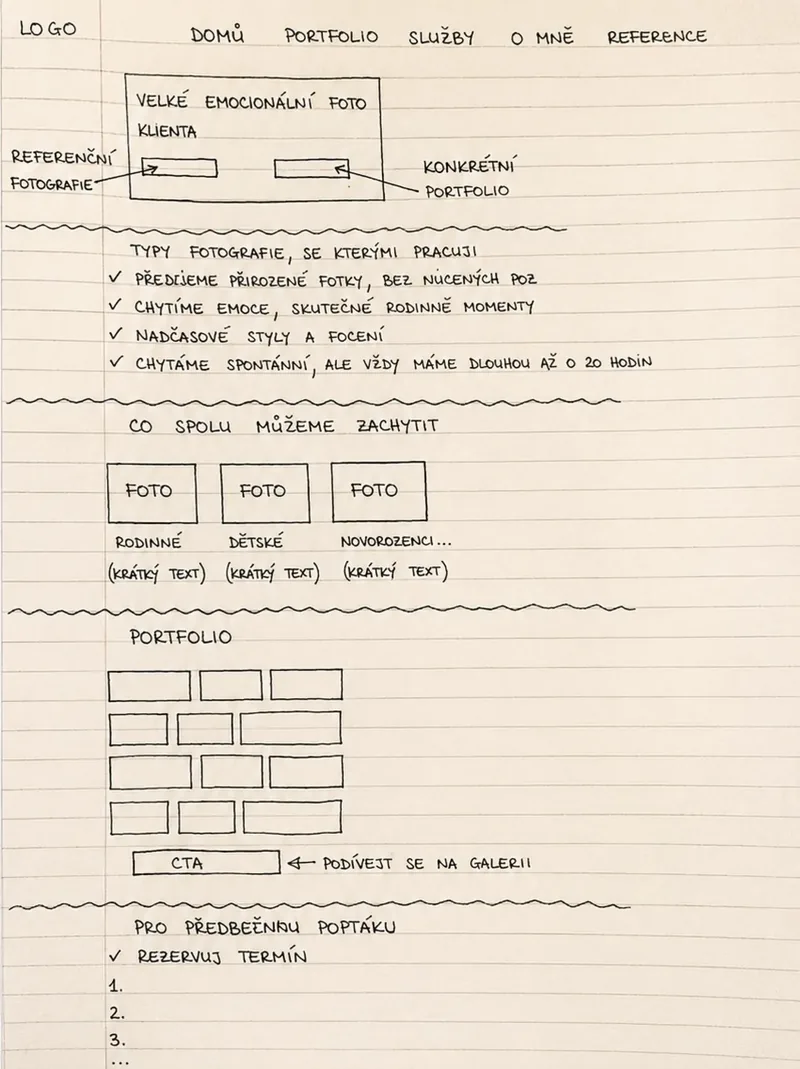
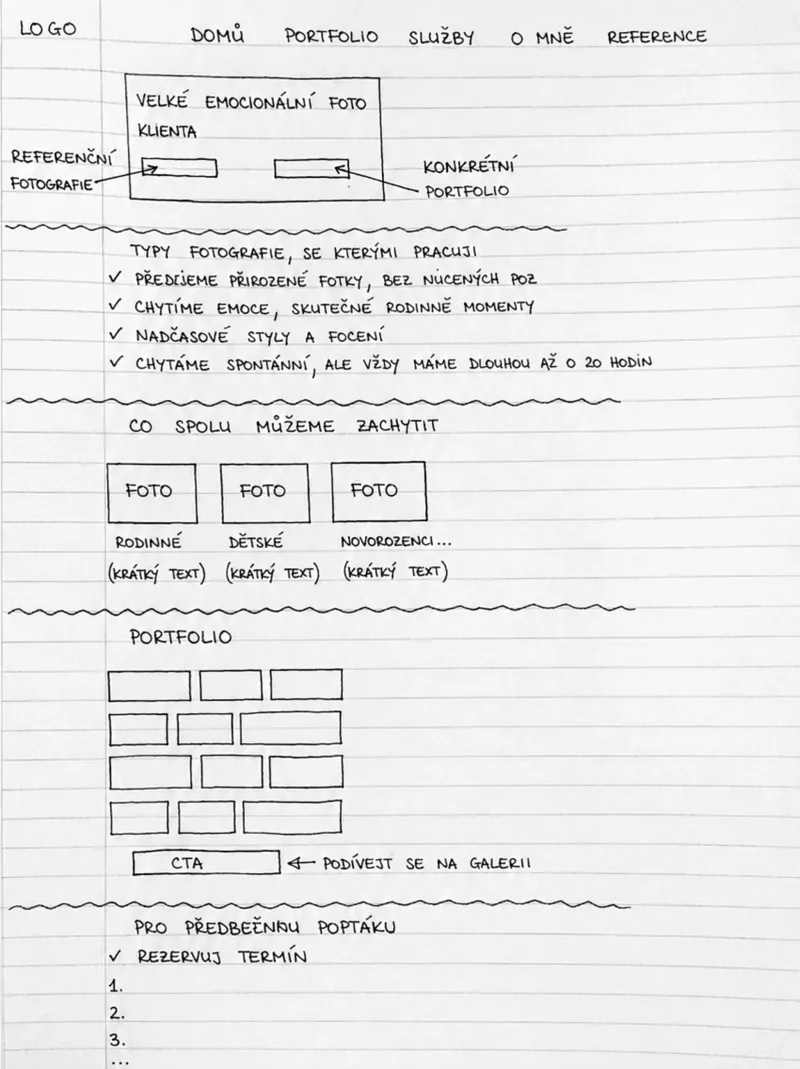
innaguba.com case study: user flow and sketches in black and white

diff --git a/work/innaguba.html b/work/innaguba.html
@@ -165,8 +165,8 @@
     <h2>Paper first, <em class="ed">then pixels</em></h2>
     <div class="prose"><p>I mapped the ideal journey by hand, from first impression to enquiry, sketched the homepage, then explored layouts as lo-fi wireframes and an annotated landing page where every section has a job.</p></div>
     <div class="fig-grid three">
-      <figure class="figure"><img src="../assets/img/innaguba/flow.webp" width="900" height="1874" alt="Hand-drawn user flow from start to booking" loading="lazy"><figcaption>User flow</figcaption></figure>
-      <figure class="figure"><img src="../assets/img/innaguba/sketches.webp" srcset="../assets/img/innaguba/sketches-800.webp 800w, ../assets/img/innaguba/sketches.webp 1200w" sizes="(max-width: 900px) 92vw, 360px" width="1200" height="1604" alt="Hand-drawn homepage sketches with notes" loading="lazy"><figcaption>Homepage sketches</figcaption></figure>
+      <figure class="figure"><img src="../assets/img/innaguba/flow.webp?v=2" width="900" height="1874" alt="Hand-drawn user flow from start to booking" loading="lazy"><figcaption>User flow</figcaption></figure>
+      <figure class="figure"><img src="../assets/img/innaguba/sketches.webp?v=2" srcset="../assets/img/innaguba/sketches-800.webp?v=2 800w, ../assets/img/innaguba/sketches.webp?v=2 1200w" sizes="(max-width: 900px) 92vw, 360px" width="1200" height="1604" alt="Hand-drawn homepage sketches with notes" loading="lazy"><figcaption>Homepage sketches</figcaption></figure>
       <figure class="figure"><img src="../assets/img/innaguba/landing-wireframe.webp" srcset="../assets/img/innaguba/landing-wireframe-800.webp 800w, ../assets/img/innaguba/landing-wireframe.webp 1200w" sizes="(max-width: 900px) 92vw, 360px" width="1200" height="1844" alt="Annotated landing page wireframe" loading="lazy"><figcaption>Annotated landing page</figcaption></figure>
     </div>
     <figure class="figure"><img src="../assets/img/innaguba/lofi.webp" srcset="../assets/img/innaguba/lofi-800.webp 800w, ../assets/img/innaguba/lofi.webp 1800w" sizes="(max-width: 1200px) 92vw, 1100px" width="1800" height="1200" alt="Grid of lo-fi wireframes" loading="lazy"><figcaption>Lo-fi wireframes</figcaption></figure>
